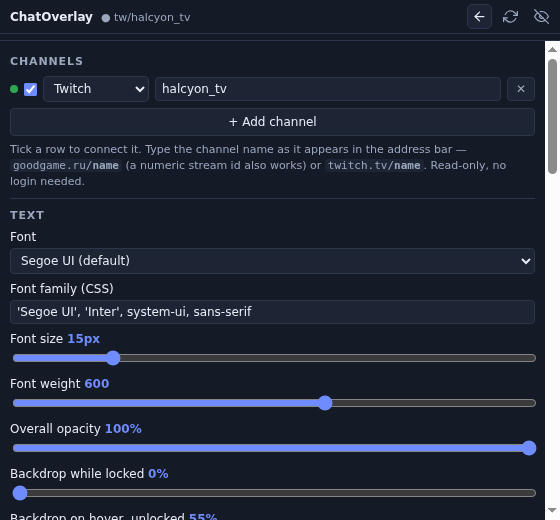
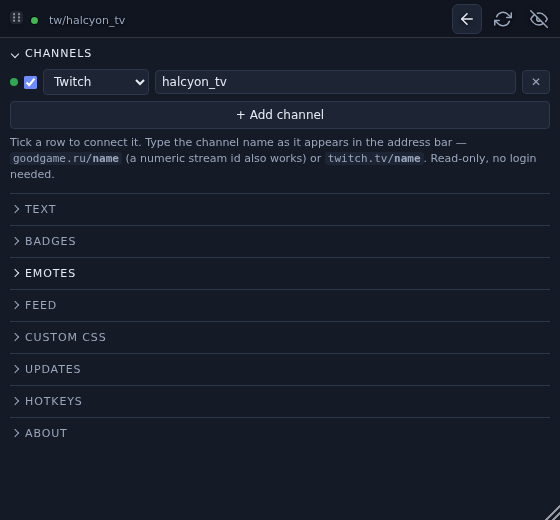
Drag the window by the chat, and keep the scrollbar off the bar
Moving the window meant finding the bar first. Unlocked, the feed is now a drag
region too: there is no text to select (selection is off globally) and no link
to click, so dragging anywhere in it is free. It keys off the lock class rather
than :hover, because a drag region that appears under the pointer is what made
the bar flicker. The scrollbar keeps an invisible no-drag strip over it, and
the resize corner opts out as well, or the corner would move the window instead
of resizing it.

The settings scroll track ran the full height of the window, which put it
behind the bar's buttons. The panel is inset below the bar now, so the track
starts under it. The bar's icons went from 15px to 18px with more padding,
which makes them a 30px target rather than 25px.

Also fixes the screenshot capture: capturePage could hand back the frame before
the last change was composited, which produced a "settings" screenshot showing
the chat. The README screenshot is regenerated.

Changed region(s): [[0.0, 0.0, 1.0, 1.0]]

diff --git a/static/renderer/style.css b/static/renderer/style.css
@@ -16,7 +16,7 @@
   --accent: #6f8cff;
   /* Height of the top bar. The settings panel is drawn under it, so it needs
      to know how far down its content has to start. */
-  --bar-h: 33px;
+  --bar-h: 38px;
 }
 
 * { box-sizing: border-box; }
@@ -171,8 +171,8 @@ body:not(.locked):hover .src-names { opacity: 1; }
   background: transparent;
   color: var(--ui-dim);
   border: 1px solid transparent;
-  border-radius: 5px;
-  padding: 4px;
+  border-radius: 6px;
+  padding: 5px;
   font: inherit;
   font-size: 11px;
   cursor: pointer;
@@ -182,8 +182,8 @@ body:not(.locked):hover .src-names { opacity: 1; }
    so without this the Update button would show even when there is no update. */
 #bar button[hidden] { display: none !important; }
 #bar button svg {
-  width: 15px;
-  height: 15px;
+  width: 18px;
+  height: 18px;
   display: block;
   /* The bar has no fill of its own, so the icons carry their own contrast
      against whatever game is behind them. */
@@ -228,7 +228,33 @@ body.settings-open #btn-settings { color: var(--ui-text); background: var(--ui-b
 #chat::-webkit-scrollbar-thumb { background: rgba(255, 255, 255, 0.22); border-radius: 3px; }
 #chat::-webkit-scrollbar-track { background: transparent; }
 
+/*
+ * Unlocked, the chat itself moves the window: there is no text to select
+ * (selection is off globally) and no link to click, so dragging anywhere in
+ * the feed is free. Tied to the lock class, never to :hover — a drag region
+ * that appears and disappears under the pointer is what caused the bar to
+ * flicker.
+ */
+body:not(.locked) #chat { -webkit-app-region: drag; }
+
+/* Keeps the scrollbar grabbable: an invisible strip over it that opts out of
+   dragging. pointer-events: none so clicks still reach the scrollbar itself.
+   The wheel is unaffected either way — it works inside a drag region. */
+#scroll-guard {
+  position: fixed;
+  top: var(--bar-h);
+  right: 0;
+  bottom: 16px;
+  width: 12px;
+  pointer-events: none;
+  -webkit-app-region: no-drag;
+  z-index: 41;
+}
+body.locked #scroll-guard { display: none; }
+
 #resize {
+  /* Must opt out, or dragging the corner would move the window instead. */
+  -webkit-app-region: no-drag;
   position: fixed;
   right: 0;
   bottom: 0;
@@ -364,6 +390,10 @@ body.outline .msg {
   flex-direction: column;
   background: var(--ui-bg);
   color: var(--ui-text);
+  /* Leaves the bar its own strip. Padding here rather than on the scrolling
+     body, so the scrollbar starts below the bar instead of running up behind
+     its buttons. */
+  padding-top: var(--bar-h);
   font-size: 12px;
   font-weight: 400;
 }
@@ -376,9 +406,7 @@ body.outline .msg {
   flex: 1 1 auto;
   overflow-y: auto;
   overflow-x: hidden;
-  /* The bar floats above this panel (it is the way out of it), so the first
-     group has to start below the bar rather than underneath its icons. */
-  padding: var(--bar-h) 10px 14px;
+  padding: 0 10px 14px;
   min-width: 0;
 }
 

diff --git a/static/renderer/index.html b/static/renderer/index.html
@@ -41,6 +41,7 @@
 
   <div id="chat" aria-live="polite"></div>
 
+  <div id="scroll-guard"></div>
   <div id="resize" title="Drag to resize"></div>
 
   <div id="settings" hidden>

diff --git a/.changeset/quiet-top-bar.md b/.changeset/quiet-top-bar.md
@@ -9,8 +9,11 @@ seamless, with the controls floating over the chat and carrying their own
 shadow for contrast.
 
 Hovering the overlay raises the strip back: a translucent band across the top
-with a drag handle, which is what you grab to move the window. The whole bar,
-empty space included, drags. Move the pointer away and it is gone again.
+with a drag handle, which is what you grab to move the window. Move the pointer
+away and it is gone again. The whole bar drags, empty space included — and so
+does the chat feed itself while unlocked, so there is no aiming for a strip at
+all. The scrollbar and the resize corner stay out of it, and the icon buttons
+are larger targets.
 
 The `ChatOverlay` label is gone; it was the boldest text on screen and told you
 nothing. Channel status is now one coloured dot per channel — green connected,
